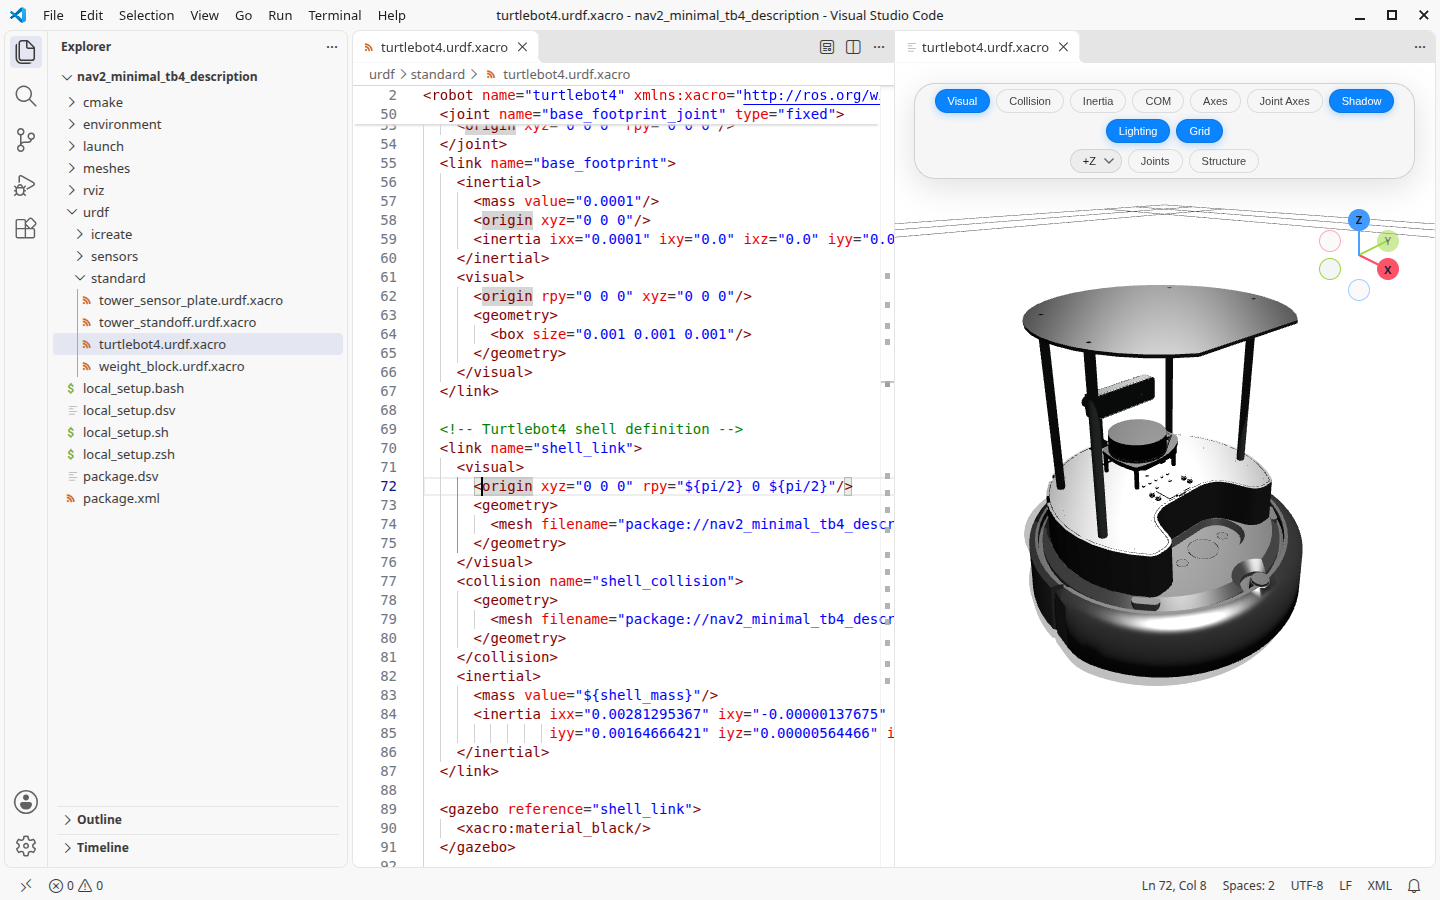
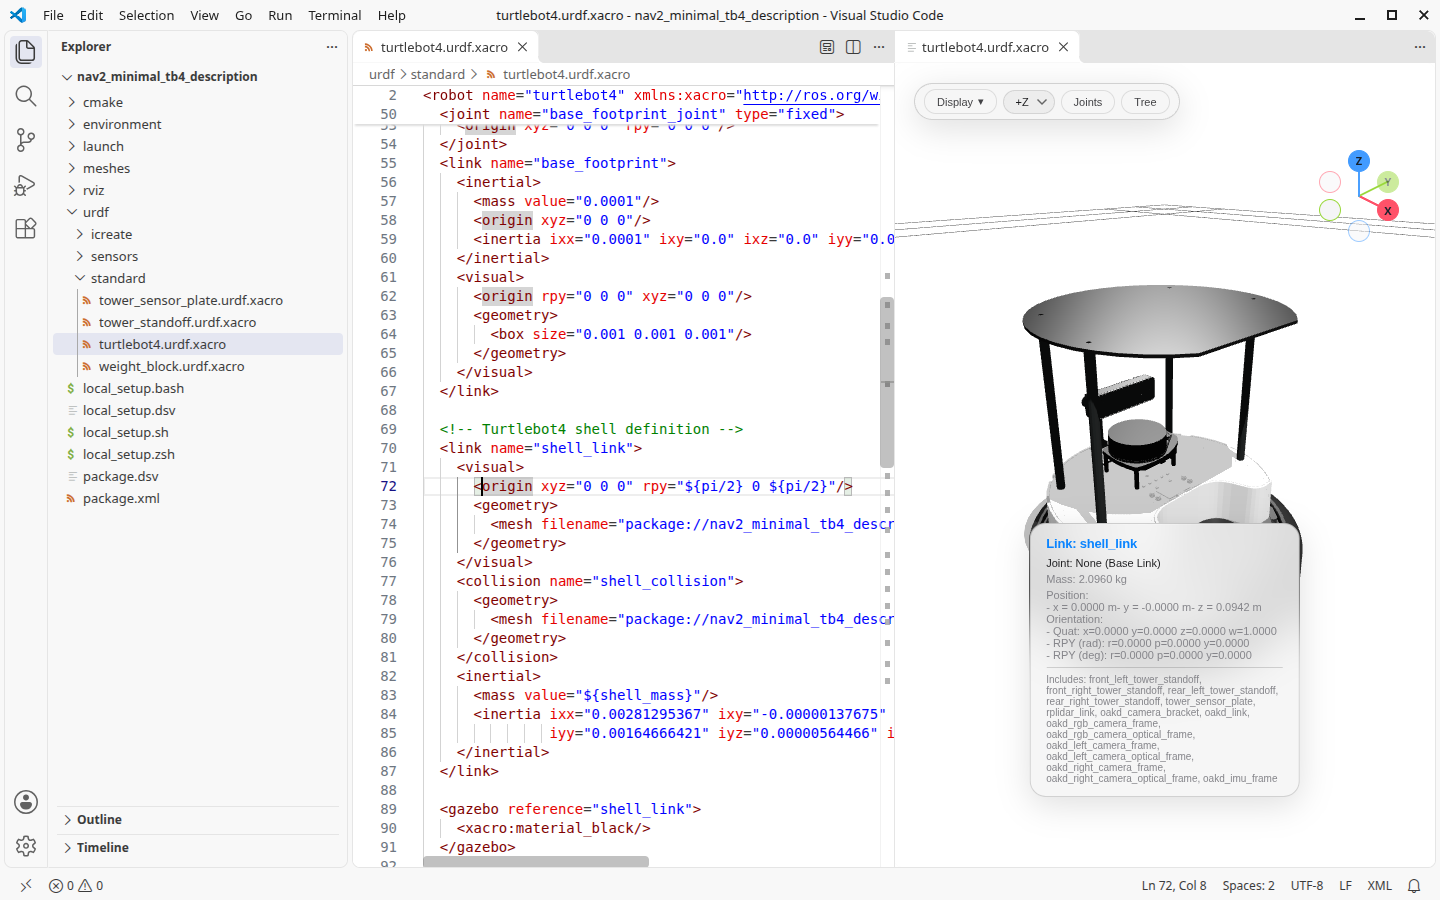
feat: compact toolbar, clearer names and no extra unsaved marker
- Collapse display toggles into a Display menu; toolbar sits top-left so the menu never covers the model
- Rename Structure to Tree / Kinematic Tree, Axes to Frames, COM to Center of Mass; separate scene settings
- Drop the preview's unsaved marker and badge, matching the Markdown preview
- Reshoot Marketplace screenshots

diff --git a/index.html b/index.html
@@ -194,12 +194,11 @@
             position: absolute;
             top: 20px;
             left: 20px;
-            right: 20px;
-            margin: 0 auto;
             width: fit-content;
+            max-width: calc(100% - 40px);
             display: flex;
             flex-wrap: wrap;
-            justify-content: center;
+            justify-content: flex-start;
             row-gap: 4px;
             align-items: center;
             gap: 6px;
@@ -1662,17 +1661,42 @@
             font-size: 14px;
         }
 
-        #unsaved-badge {
-            position: fixed;
-            right: 16px;
-            bottom: 16px;
-            padding: 4px 10px;
-            border-radius: 999px;
-            background: rgba(255, 159, 10, 0.9);
-            color: #000;
-            font-size: 12px;
-            pointer-events: none;
-            z-index: 10000;
+        .control-bar-views {
+            position: relative;
+        }
+
+        #display-menu {
+            display: none;
+            position: absolute;
+            top: calc(100% + 12px);
+            left: -4px;
+            flex-direction: column;
+            align-items: stretch;
+            gap: 4px;
+            padding: 8px;
+            background: var(--glass-bg);
+            backdrop-filter: blur(20px) saturate(150%);
+            -webkit-backdrop-filter: blur(20px) saturate(150%);
+            border: 0.5px solid var(--glass-border);
+            border-radius: 14px;
+            box-shadow: var(--glass-shadow);
+            z-index: 200;
+        }
+
+        #display-menu.open {
+            display: flex;
+        }
+
+        .display-menu-separator {
+            height: 1px;
+            margin: 2px 4px;
+            background: var(--glass-border);
+        }
+
+        #display-menu .control-button {
+            justify-content: flex-start;
+            text-align: left;
+            white-space: nowrap;
         }
 
         #load-error {
@@ -1696,6 +1720,10 @@
         <div id="canvas-container">
             <div id="top-control-bar">
                 <div class="control-bar-section control-bar-views">
+                    <button class="tool-button" id="display-menu-btn">
+                        <span class="tool-button-text" data-i18n="display"></span> ▾
+                    </button>
+                    <div id="display-menu">
                     <button class="control-button active" id="show-visual" data-checked="true">
                         <span data-i18n="visual"></span>
                     </button>
@@ -1714,6 +1742,7 @@
                     <button class="control-button" id="toggle-joint-axes-btn" data-checked="false">
                         <span data-i18n="jointAxes"></span>
                     </button>
+                    <div class="display-menu-separator"></div>
                     <button class="control-button active" id="toggle-shadow" data-checked="true">
                         <span data-i18n="shadow"></span>
                     </button>
@@ -1723,6 +1752,7 @@
                     <button class="control-button active" id="toggle-grid" data-checked="true">
                         <span data-i18n="grid"></span>
                     </button>
+                    </div>
                 </div>
 
                 <div class="control-bar-divider"></div>
@@ -1750,7 +1780,6 @@
                 </div>
             </div>
 
-            <div id="unsaved-badge" style="display: none;"></div>
             <div id="loading-indicator" style="display: none;"></div>
 
             <div id="mujoco-simulation-bar" style="display:none;">

diff --git a/src/utils/i18n.js b/src/utils/i18n.js
@@ -8,18 +8,19 @@ const APP_VERSION = typeof __APP_VERSION__ !== 'undefined' ? __APP_VERSION__ : '
 export const translations = {
     'zh-CN': {
         // 顶部控制栏
+        'display': '显示',
         'visual': '视觉',
         'collision': '碰撞',
         'com': '质心',
         'inertia': '惯量',
-        'axes': '坐标轴',
+        'axes': '坐标系',
         'jointAxes': '关节轴',
         'shadow': '阴影',
         'lighting': '光照',
         'grid': '网格',
         'files': '文件',
         'joints': '关节',
-        'structure': '结构',
+        'structure': '树状图',
         'edit': '编辑',
         'animation': '动画',
         'help': '帮助',
@@ -32,7 +33,7 @@ export const translations = {
         // 面板标题
         'fileList': '文件',
         'jointControl': '关节',
-        'modelStructure': '结构',
+        'modelStructure': '运动学树',
         'codeEditor': '编辑',
         'animationEditor': '动画编辑器',
         'animationExperimental': '实验功能 · 仍在开发中',
@@ -198,18 +199,19 @@ export const translations = {
         'fileType': '文件类型'
     },
     'zh-TW': {
+        'display': '顯示',
         'visual': '視覺',
         'collision': '碰撞',
         'com': '質心',
         'inertia': '慣量',
-        'axes': '座標軸',
+        'axes': '座標系',
         'jointAxes': '關節軸',
         'shadow': '陰影',
         'lighting': '光照',
         'grid': '網格',
         'files': '檔案',
         'joints': '關節',
-        'structure': '結構',
+        'structure': '樹狀圖',
         'edit': '編輯',
         'animation': '動畫',
         'help': '說明',
@@ -221,7 +223,7 @@ export const translations = {
 
         'fileList': '檔案',
         'jointControl': '關節',
-        'modelStructure': '結構',
+        'modelStructure': '運動學樹',
         'codeEditor': '編輯',
         'animationEditor': '動畫編輯器',
         'animationExperimental': '實驗功能 · 仍在開發中',
@@ -376,18 +378,19 @@ export const translations = {
     },
     'en-US': {
         // Top control bar
+        'display': 'Display',
         'visual': 'Visual',
         'collision': 'Collision',
-        'com': 'COM',
+        'com': 'Center of Mass',
         'inertia': 'Inertia',
-        'axes': 'Axes',
+        'axes': 'Frames',
         'jointAxes': 'Joint Axes',
         'shadow': 'Shadow',
         'lighting': 'Lighting',
         'grid': 'Grid',
         'files': 'Files',
         'joints': 'Joints',
-        'structure': 'Structure',
+        'structure': 'Tree',
         'edit': 'Edit',
         'animation': 'Animation',
         'help': 'Help',
@@ -400,7 +403,7 @@ export const translations = {
         // Panel titles
         'fileList': 'Files',
         'jointControl': 'Joints',
-        'modelStructure': 'Structure',
+        'modelStructure': 'Kinematic Tree',
         'codeEditor': 'Editor',
         'animationEditor': 'Animation Editor',
         'animationExperimental': 'Experimental · In development',

diff --git a/vscode-extension/extension.js b/vscode-extension/extension.js
@@ -264,7 +264,6 @@ class Preview {
         if (this.primary?.fsPath === uri.fsPath) return;
         this.primary = uri;
         this.panel.title = path.basename(uri.fsPath);
-        this.lastDirty = null;
         this.sent = new Map();
         this.lastHighlight = null;
         this.clearDiagnostics();
@@ -458,7 +457,6 @@ class Preview {
             if (primary !== this.primary || !this.panel) return;
             this.listing = listing;
             this.watchRoots(listing.roots);
-            this.updateDirty();
 
             const newMissing = listing.missing.filter(name => !this.warned.has(name));
             if (newMissing.length) {
@@ -501,27 +499,14 @@ class Preview {
         });
     }
 
-    updateDirty() {
-        if (!this.panel || !this.primary) return;
-        const dirty = liveEditing() && vscode.workspace.textDocuments.some(doc => doc.isDirty && this.listing?.paths.has(doc.uri.fsPath));
-        this.panel.title = `${dirty ? '● ' : ''}${path.basename(this.primary.fsPath)}`;
-        if (dirty !== this.lastDirty) {
-            this.lastDirty = dirty;
-            this.panel.webview.postMessage({ type: 'dirty', dirty });
-        }
-    }
-
     onDocumentChanged(event) {
-        if (this.listing?.paths.has(event.document.uri.fsPath)) this.updateDirty();
         if (liveEditing() && this.panel && event.contentChanges.length && this.listing?.paths.has(event.document.uri.fsPath)) {
             this.scheduleUpdate();
         }
     }
 
     onDocumentSaved(doc) {
-        if (!this.panel || !this.listing?.paths.has(doc.uri.fsPath)) return;
-        this.updateDirty();
-        this.scheduleUpdate();
+        if (this.panel && this.listing?.paths.has(doc.uri.fsPath)) this.scheduleUpdate();
     }
 
     onSelectionChanged(event) {
@@ -711,9 +696,7 @@ exports.activate = context => {
         vscode.workspace.onDidChangeTextDocument(event => preview.onDocumentChanged(event)),
         vscode.workspace.onDidSaveTextDocument(doc => preview.onDocumentSaved(doc)),
         vscode.workspace.onDidChangeConfiguration(event => {
-            if (!event.affectsConfiguration('robotPreviewUrdf.updateOn')) return;
-            preview.updateDirty();
-            preview.scheduleUpdate();
+            if (event.affectsConfiguration('robotPreviewUrdf.updateOn')) preview.scheduleUpdate();
         }),
         vscode.window.onDidChangeTextEditorSelection(event => preview.onSelectionChanged(event))
     );

diff --git a/src/main.js b/src/main.js
@@ -119,6 +119,17 @@ class App {
             this.mujocoSimulationManager = new MujocoSimulationManager(this.sceneManager);
 
             this.setupModelTreePanel();
+            const displayMenu = document.getElementById('display-menu');
+            const displayButton = document.getElementById('display-menu-btn');
+            displayButton.addEventListener('click', () => {
+                displayMenu.classList.toggle('open');
+                displayButton.classList.toggle('active', displayMenu.classList.contains('open'));
+            });
+            document.addEventListener('click', event => {
+                if (displayMenu.contains(event.target) || displayButton.contains(event.target)) return;
+                displayMenu.classList.remove('open');
+                displayButton.classList.remove('active');
+            });
             const toolbar = document.getElementById('top-control-bar');
             new ResizeObserver(() => {
                 document.documentElement.style.setProperty('--toolbar-bottom', `${toolbar.offsetTop + toolbar.offsetHeight}px`);
@@ -258,11 +269,6 @@ class App {
             update: (message) => this.loadFiles(message, false),
             exportUrdf: async ({ requestId }) => {
                 vscode.postMessage({ type: 'urdf', requestId, text: this.lastLoadError ? null : this.currentModel?.expandedUrdf ?? null });
-            },
-            dirty: async ({ dirty }) => {
-                const badge = document.getElementById('unsaved-badge');
-                badge.textContent = i18n.t('unsaved');
-                badge.style.display = dirty ? 'block' : 'none';
             },
             highlight: async ({ kind, pattern }) => {
                 this.lastHighlight = pattern ? { kind, pattern } : null;

diff --git a/docs/vscode-extension.md b/docs/vscode-extension.md
@@ -18,7 +18,7 @@ Symlinked directories are followed (for `colcon build --symlink-install`), with 
 
 The preview works like the Markdown preview: the source stays in VS Code's own text editor and the viewer opens beside it. There is a single preview; switching to a file that the current model includes (judged by its file name appearing in an `xacro:include` / `include`) keeps the full robot on screen, while switching to another top-level model replaces it. A closed preview does not reopen for the same file until the window is reloaded; `robotPreviewUrdf.autoOpen` disables auto-opening entirely. `.xml` opens automatically only when its root is `<mujoco>` or `<robot>`.
 
-By default the preview rebuilds 300 ms after typing stops, including unsaved text; because the robot on screen can then differ from the file on disk, the preview tab shows ● and the viewer an "unsaved" badge until every file it uses is saved. Combining the default with VS Code's `files.autoSave` removes the risk of forgetting to save. `robotPreviewUrdf.updateOn: "save"` rebuilds only on save; in that mode a rebuild triggered by something else still sends the saved file, never unsaved edits, while jumping to a definition and writing joint limits always work on the editor's current text. Changes made outside VS Code (CAD re-export, `git checkout`) are picked up by a file watcher. Only files whose editor version or disk mtime changed are resent, so large mesh sets are transferred once. Each update builds the new model off-screen, waits for every mesh (at most 15 s), and swaps it in within one frame without touching the camera; the previous approach of adding the model first and letting meshes, visibility and camera framing catch up over the next second is what made the robot flash. Edits arriving while a model is still building are merged, so only the newest version is built. Parsed meshes are cached per file content and deep-copied for each build (copying is far cheaper than reparsing STL/DAE, and a copy keeps per-link material colours and MJCF scaling from leaking between instances); an unchanged mesh is not reparsed across rebuilds. A mesh that cannot be resolved from the sent files fails immediately instead of falling back to urdf-loader's network loader, which never reports STL 404s and used to stall the swap for the full 15 s timeout. Camera and joint angles survive the reload; if the XML does not parse, the previous model stays, the error is shown in the viewer and reported in the Problems panel. Syntax errors are found by parsing every changed file with the webview's `DOMParser`, so they point at the right file and line even inside an included xacro; errors raised later while expanding xacro or building the model have no reliable source line and are attached to line 1 of the opened file, and only when no syntax error exists.
+By default the preview rebuilds 300 ms after typing stops, including unsaved text, like the built-in Markdown preview. The preview carries no unsaved marker of its own: the editor tab's ● already shows it, and the Markdown preview does the same. Combining the default with VS Code's `files.autoSave` removes the risk of forgetting to save. `robotPreviewUrdf.updateOn: "save"` rebuilds only on save; in that mode a rebuild triggered by something else still sends the saved file, never unsaved edits, while jumping to a definition and writing joint limits always work on the editor's current text. Changes made outside VS Code (CAD re-export, `git checkout`) are picked up by a file watcher. Only files whose editor version or disk mtime changed are resent, so large mesh sets are transferred once. Each update builds the new model off-screen, waits for every mesh (at most 15 s), and swaps it in within one frame without touching the camera; the previous approach of adding the model first and letting meshes, visibility and camera framing catch up over the next second is what made the robot flash. Edits arriving while a model is still building are merged, so only the newest version is built. Parsed meshes are cached per file content and deep-copied for each build (copying is far cheaper than reparsing STL/DAE, and a copy keeps per-link material colours and MJCF scaling from leaking between instances); an unchanged mesh is not reparsed across rebuilds. A mesh that cannot be resolved from the sent files fails immediately instead of falling back to urdf-loader's network loader, which never reports STL 404s and used to stall the swap for the full 15 s timeout. Camera and joint angles survive the reload; if the XML does not parse, the previous model stays, the error is shown in the viewer and reported in the Problems panel. Syntax errors are found by parsing every changed file with the webview's `DOMParser`, so they point at the right file and line even inside an included xacro; errors raised later while expanding xacro or building the model have no reliable source line and are attached to line 1 of the opened file, and only when no syntax error exists.
 
 Clicking a link in the 3D view or the structure graph selects its definition in the text editor; moving the cursor into a `<link>` / `<joint>` / `<body>` highlights it in the viewer. Names generated by xacro macros are matched by expanding `xacro:property` values from the same file and treating the remaining `${...}` as wildcards; the candidate with the most literal characters wins, and ties open a Quick Pick. Macro parameters passed from the call site are not evaluated, so a generic `${name}_link` can still match several definitions. Highlighting a wildcard match only marks the first link because the viewer tracks one highlighted link.
 

diff --git a/vscode-extension/CHANGELOG.md b/vscode-extension/CHANGELOG.md
@@ -5,7 +5,7 @@
 First Marketplace release.
 
 - Live 3D preview beside the text editor for URDF, Xacro and MJCF; the preview follows the active model and keeps the full robot while editing included xacro files.
-- Updates while typing (or on save, `robotPreviewUrdf.updateOn`) without flashing; camera and joint pose are kept and the tab shows ● while the preview contains unsaved edits.
+- Updates while typing (or on save, `robotPreviewUrdf.updateOn`) without flashing; camera and joint pose are kept.
 - `package://` and `$(find)` resolved across ROS packages in the workspace, `ROS_PACKAGE_PATH`, `AMENT_PREFIX_PATH` and `/opt/ros`.
 - Two-way selection: click a link to jump to its definition, move the cursor to highlight it; xacro macro names supported.
 - Joint limits edited in the viewer are written back to the URDF source.
